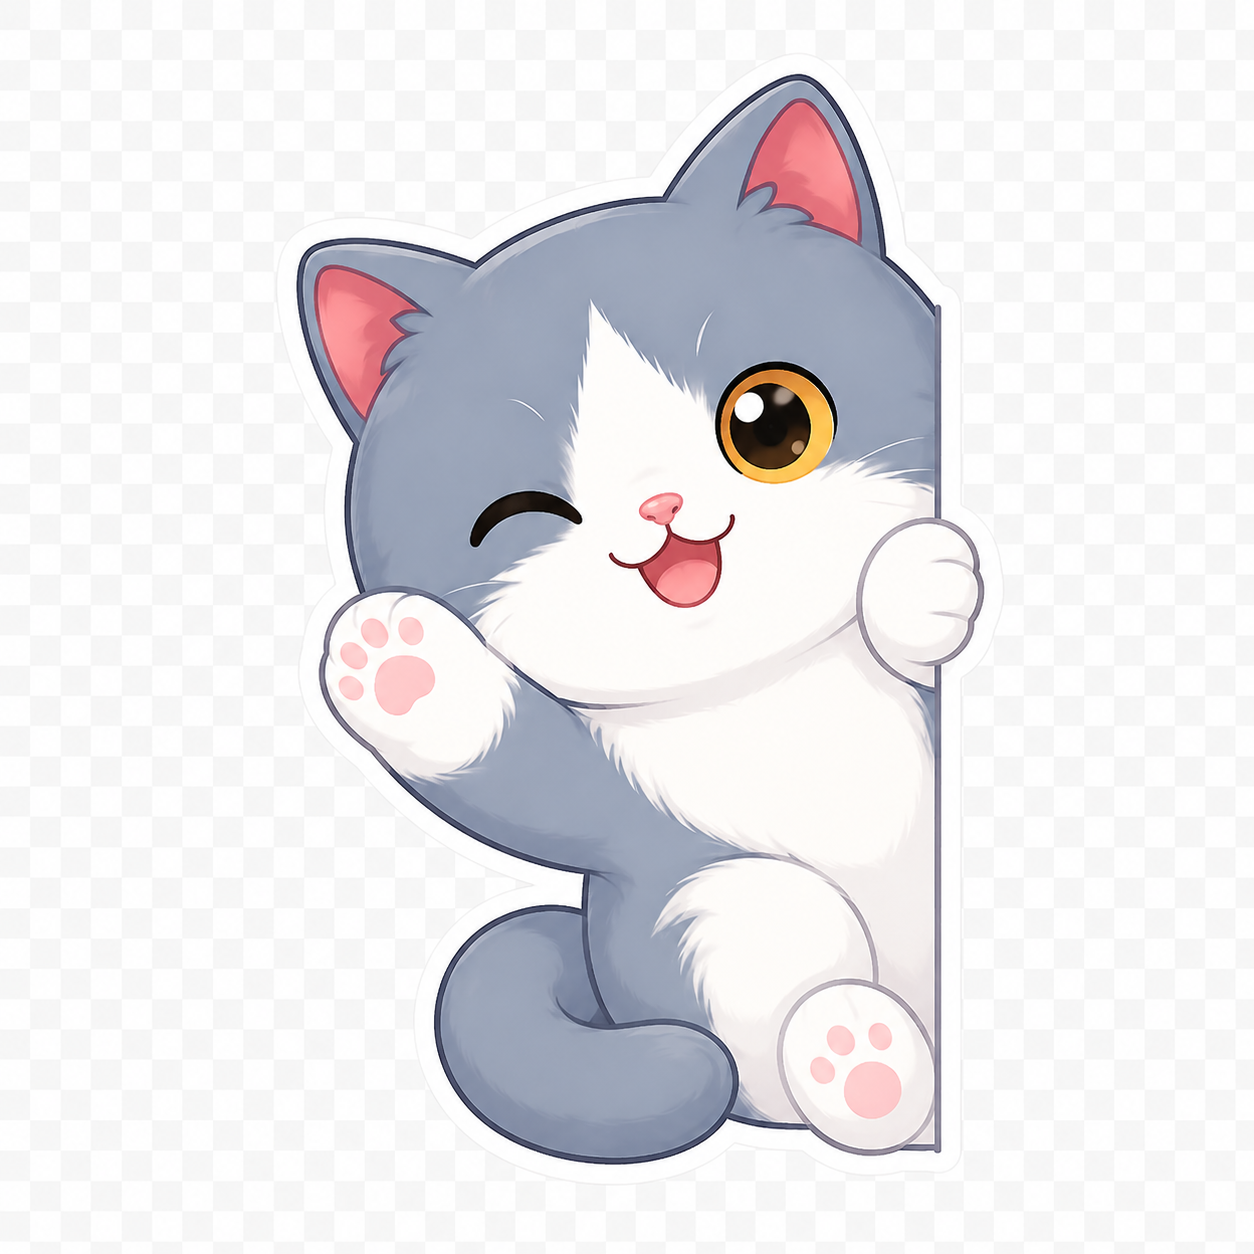
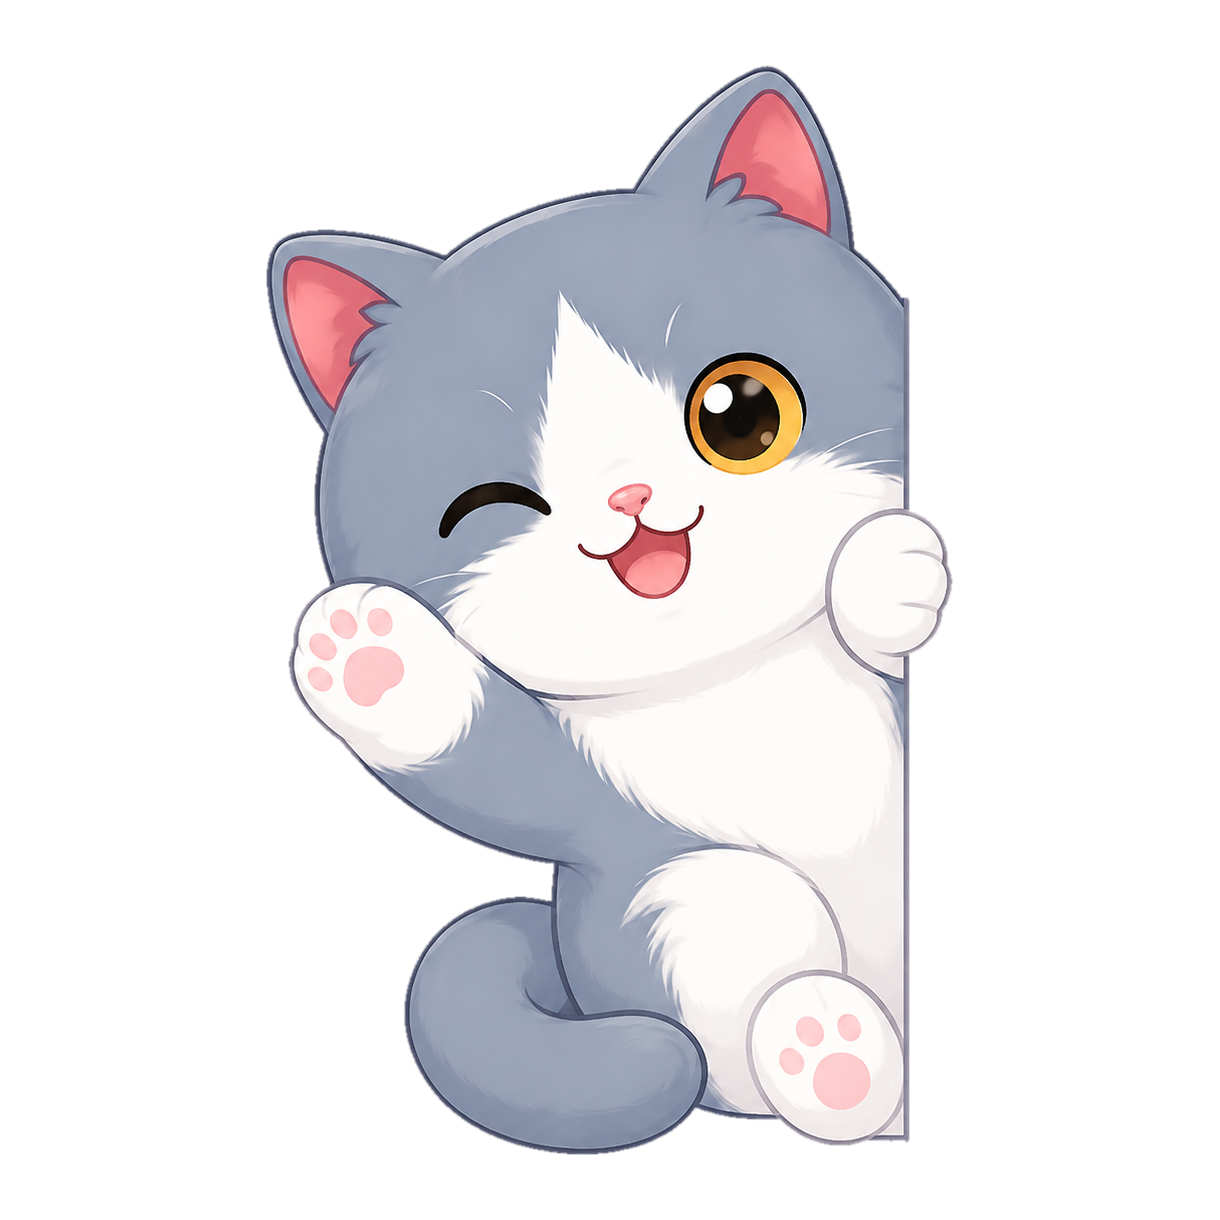
p0-2

Changed region(s): [[0.218, 0.0311, 0.8098, 0.9656]]

diff --git a/android-app/lib/theme/app_colors.dart b/android-app/lib/theme/app_colors.dart
@@ -67,6 +67,15 @@ class AppColors {
 // 主题工厂
 // ---------------------------------------------------------------------------
 
+/// 全 App 页面转场：用 iOS 风（横向滑入 + 从左缘侧滑返回）。
+/// 设在主题里 → 所有 MaterialPageRoute 自动生效，无需逐个跳转点改。
+const PageTransitionsTheme _kIosPageTransitions = PageTransitionsTheme(
+  builders: {
+    TargetPlatform.android: CupertinoPageTransitionsBuilder(),
+    TargetPlatform.iOS: CupertinoPageTransitionsBuilder(),
+  },
+);
+
 /// Material 3 ColorScheme 工厂：浅色 + 深色。
 class AppTheme {
   AppTheme._();
@@ -92,6 +101,7 @@ class AppTheme {
       colorScheme: cs,
       scaffoldBackgroundColor: Colors.white,
       useMaterial3: true,
+      pageTransitionsTheme: _kIosPageTransitions,
       // AppBar 全白、无 tint、无滚动浮起阴影，与正文背景无缝
       appBarTheme: const AppBarTheme(
         backgroundColor: Colors.white,
@@ -154,6 +164,7 @@ class AppTheme {
     return ThemeData(
       colorScheme: cs,
       useMaterial3: true,
+      pageTransitionsTheme: _kIosPageTransitions,
       cardTheme: CardThemeData(
         elevation: 1,
         shape: RoundedRectangleBorder(
